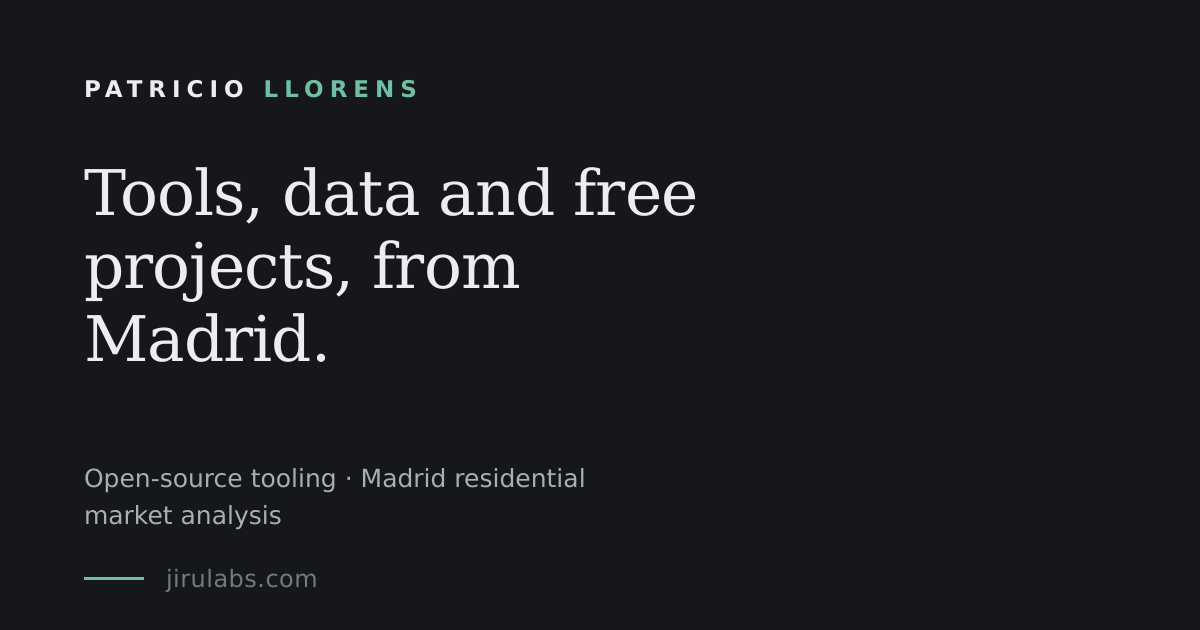
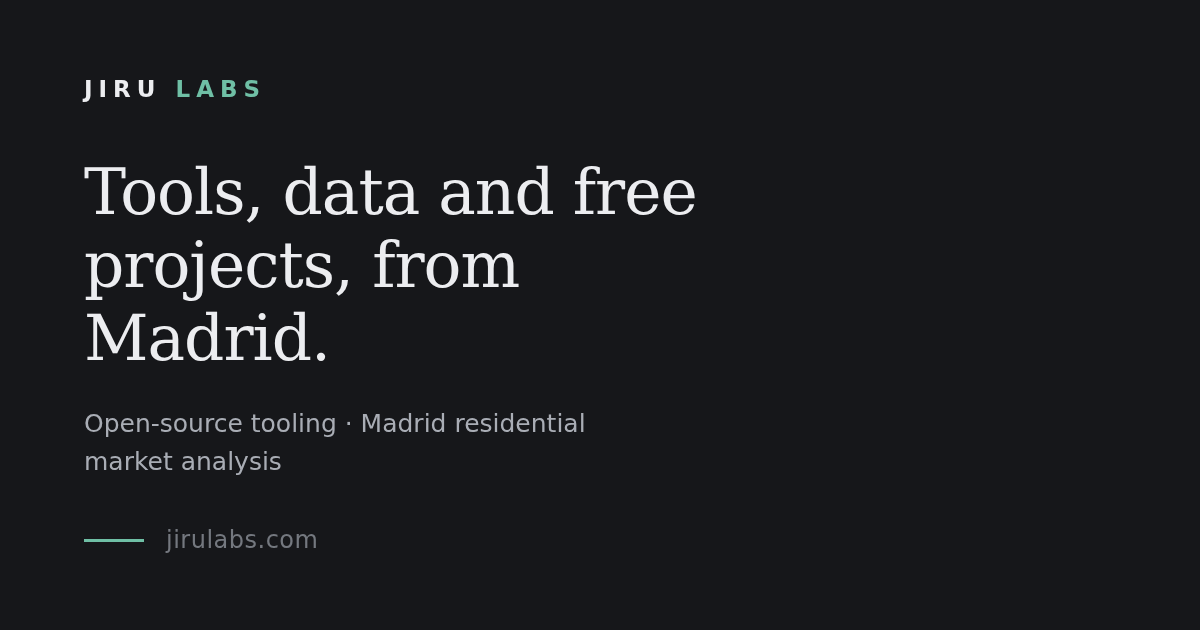
Jiru Labs name back; llm-usage-overlay -> jiru-labs

diff --git a/index.html b/index.html
@@ -5,17 +5,17 @@
 <meta name="viewport" content="width=device-width, initial-scale=1">
 <meta http-equiv="Content-Security-Policy" content="default-src 'none'; style-src 'unsafe-inline'; img-src 'self' data:; base-uri 'none'; form-action 'none'">
 <meta name="referrer" content="strict-origin-when-cross-origin">
-<title>Patricio Llorens — Herramientas open source y análisis de datos</title>
-<meta name="description" content="Patricio Llorens, en Madrid. Herramientas open source para quien ejecuta agentes de IA en su propia infraestructura y análisis longitudinal del mercado residencial de Madrid.">
+<title>Jiru Labs — Herramientas open source y análisis de datos</title>
+<meta name="description" content="Laboratorio independiente en Madrid. Herramientas open source para quien ejecuta agentes de IA en su propia infraestructura y análisis longitudinal del mercado residencial de Madrid.">
 <link rel="canonical" href="https://jirulabs.com/">
 <link rel="alternate" hreflang="es" href="https://jirulabs.com/">
 <link rel="alternate" hreflang="en" href="https://jirulabs.com/en/">
 <link rel="alternate" hreflang="x-default" href="https://jirulabs.com/">
 <meta property="og:type" content="website">
-<meta property="og:site_name" content="Patricio Llorens">
+<meta property="og:site_name" content="Jiru Labs">
 <meta property="og:locale" content="es_ES">
-<meta property="og:title" content="Patricio Llorens — Herramientas open source y análisis de datos">
-<meta property="og:description" content="Patricio Llorens, en Madrid. Herramientas open source para quien ejecuta agentes de IA en su propia infraestructura y análisis longitudinal del mercado residencial de Madrid.">
+<meta property="og:title" content="Jiru Labs — Herramientas open source y análisis de datos">
+<meta property="og:description" content="Laboratorio independiente en Madrid. Herramientas open source para quien ejecuta agentes de IA en su propia infraestructura y análisis longitudinal del mercado residencial de Madrid.">
 <meta property="og:url" content="https://jirulabs.com/">
 <meta property="og:image" content="https://jirulabs.com/og-es.png">
 <meta property="og:image:type" content="image/png">
@@ -27,7 +27,7 @@
 <meta name="robots" content="index, follow, max-snippet:-1, max-image-preview:large">
 <link rel="icon" href="/favicon.svg" type="image/svg+xml">
 <link rel="alternate icon" href="/favicon.ico" sizes="32x32">
-<script type="application/ld+json">{"@context":"https://schema.org","@graph":[{"@type":"Person","@id":"https://jirulabs.com/#person","name":"Patricio Llorens","url":"https://jirulabs.com/","email":"info@jirulabs.com","address":{"@type":"PostalAddress","addressLocality":"Madrid","addressCountry":"ES"},"sameAs":["https://github.com/jiru-labs"]},{"@type":"WebSite","@id":"https://jirulabs.com/#website","url":"https://jirulabs.com/","name":"Patricio Llorens","inLanguage":["es","en"],"publisher":{"@id":"https://jirulabs.com/#person"}}]}</script>
+<script type="application/ld+json">{"@context":"https://schema.org","@graph":[{"@type":"Organization","@id":"https://jirulabs.com/#org","name":"Jiru Labs","url":"https://jirulabs.com/","email":"info@jirulabs.com","address":{"@type":"PostalAddress","addressLocality":"Madrid","addressCountry":"ES"},"sameAs":["https://github.com/jiru-labs"]},{"@type":"WebSite","@id":"https://jirulabs.com/#website","url":"https://jirulabs.com/","name":"Jiru Labs","inLanguage":["es","en"],"publisher":{"@id":"https://jirulabs.com/#org"}}]}</script>
 <style>
   :root {
     --bg:#fbfaf8; --surface:#ffffff; --ink:#16171a; --ink-soft:#55585f; --ink-faint:#8b8f97;
@@ -202,14 +202,14 @@
 
   <header>
     <div class="topbar">
-      <div class="brand">Patricio&thinsp;<span>Llorens</span></div>
+      <div class="brand">Jiru&thinsp;<span>Labs</span></div>
       <span class="tools">
         <a class="gh" href="https://github.com/jiru-labs" title="GitHub" aria-label="GitHub"><svg viewBox="0 0 16 16" width="20" height="20" aria-hidden="true" focusable="false"><path fill="currentColor" d="M8 0c4.42 0 8 3.58 8 8a8.013 8.013 0 0 1-5.45 7.59c-.4.08-.55-.17-.55-.38 0-.27.01-1.13.01-2.2 0-.75-.25-1.23-.54-1.48 1.78-.2 3.65-.88 3.65-3.95 0-.88-.31-1.59-.82-2.15.08-.2.36-1.02-.08-2.12 0 0-.67-.22-2.2.82-.64-.18-1.32-.27-2-.27-.68 0-1.36.09-2 .27-1.53-1.03-2.2-.82-2.2-.82-.44 1.1-.16 1.92-.08 2.12-.51.56-.82 1.28-.82 2.15 0 3.06 1.86 3.75 3.64 3.95-.23.2-.44.55-.51 1.07-.46.21-1.61.55-2.33-.66-.15-.24-.6-.83-1.23-.82-.67.01-.27.38.01.53.34.19.73.9.82 1.13.16.45.68 1.31 2.69.94 0 .67.01 1.3.01 1.49 0 .21-.15.45-.55.38A7.995 7.995 0 0 1 0 8c0-4.42 3.58-8 8-8Z"/></svg></a>
         <a class="lang" href="/en/" hreflang="en">English</a>
       </span>
     </div>
     <h1>Herramientas, datos y proyectos libres, desde Madrid.</h1>
-    <p class="lede">Hago herramientas open source para quien ejecuta agentes de IA en su propia infraestructura y hago análisis longitudinal de datos de mercado. Dos líneas, un mismo criterio: sin cuentas, sin rastreo, y ninguna cifra que no se sostenga.</p>
+    <p class="lede">Hacemos herramientas open source para quien ejecuta agentes de IA en su propia infraestructura y análisis longitudinal de datos de mercado. Dos líneas, un mismo criterio: sin cuentas, sin rastreo, y ninguna cifra que no se sostenga.</p>
   </header>
 
   <hr class="rule">
@@ -225,7 +225,7 @@
         </div>
         <p>Cuánta IA estás usando, sin darle tus datos a nadie más. Una ventanita siempre visible en Windows con tus límites y tu gasto: Claude Pro/Max, ChatGPT Plus/Pro (límites de Codex), OpenCode Go/Zen, y el gasto de las API de Anthropic y OpenAI con una clave de administrador. Cada barra proyecta adónde llegarás a este ritmo, y avisa al 80 y al 95&nbsp;%. Inicias sesión en un perfil de navegador privado de la propia app: nunca lee las cookies de tu navegador ni se hace pasar por los clientes oficiales. Sin servidor, sin telemetría.</p>
         <p class="warn">El instalador no está firmado: Windows SmartScreen avisará la primera vez (Más información → Ejecutar de todas formas). Cada versión se compila en GitHub Actions desde el código etiquetado; compruébala con SHA256SUMS.txt o la atestación.</p>
-        <div class="cardlinks"><a href="https://github.com/nyakojiru/llm-usage-overlay/releases/latest">Descargar para Windows</a><a href="https://github.com/nyakojiru/llm-usage-overlay">Código</a></div>
+        <div class="cardlinks"><a href="https://github.com/jiru-labs/llm-usage-overlay/releases/latest">Descargar para Windows</a><a href="https://github.com/jiru-labs/llm-usage-overlay">Código</a></div>
         <div class="tags"><span class="tag">llm</span><span class="tag">usage-limits</span><span class="tag">privacy</span><span class="tag">tauri</span><span class="tag">windows</span></div>
       </div>
       <div class="card">
@@ -254,7 +254,7 @@
         </div>
         <p>Audita ficheros de configuración MCP en busca de claves incrustadas, transportes en claro, comandos de arranque tipo <code>curl&nbsp;|&nbsp;sh</code> y permisos demasiado amplios. Lee la configuración, no los servidores. Salida SARIF.</p>
         <pre class="install"><code>pipx install mcp-config-audit</code></pre>
-        <p class="warn">Archivado: el código y el paquete de PyPI siguen publicados, pero ya no recibe cambios. PyPI es el único registro en el que se publica, siempre desde un commit etiquetado de este repositorio. Un paquete con este nombre en npm o en cualquier otro registro no es mío.</p>
+        <p class="warn">Archivado: el código y el paquete de PyPI siguen publicados, pero ya no recibe cambios. PyPI es el único registro en el que se publica, siempre desde un commit etiquetado de este repositorio. Un paquete con este nombre en npm o en cualquier otro registro no es nuestro.</p>
         <div class="cardlinks"><a href="https://github.com/jiru-labs/mcp-config-audit">Código</a><a href="https://pypi.org/project/mcp-config-audit/">PyPI</a></div>
         <div class="tags"><span class="tag">mcp</span><span class="tag">ai-security</span><span class="tag">static-analysis</span><span class="tag">sarif</span><span class="tag">devsecops</span></div>
       </div>
@@ -283,14 +283,14 @@
       <li><b>Open source</b> — licencias permisivas (MIT y similares) bienvenidas; no exijo copyleft.</li>
       <li><b>KISS</b> — keep it simple, stupid: una forma sencilla de hacer cada cosa.</li>
     </ul>
-    <p class="soft" style="margin-top:1.1rem; font-size:.96rem">En la práctica: mis herramientas nunca se hacen pasar por clientes oficiales ni leen datos de otras aplicaciones (cookies del navegador incluidas), y todo lo no oficial se documenta como no oficial.</p>
+    <p class="soft" style="margin-top:1.1rem; font-size:.96rem">En la práctica: nuestras herramientas nunca se hacen pasar por clientes oficiales ni leen datos de otras aplicaciones (cookies del navegador incluidas), y todo lo no oficial se documenta como no oficial.</p>
   </section>
 
   <hr class="rule">
 
   <section>
     <h2>Análisis de datos — mercado residencial de Madrid</h2>
-    <p class="soft">Sigo a diario la oferta residencial de Madrid y su área metropolitana, anuncio por anuncio, desde que se publica hasta que desaparece. De esa serie salen cifras que un informe de precio medio no puede dar: <strong>cuánto tarda de verdad en venderse</strong> cada zona, <strong>qué proporción de vendedores acaba bajando el precio</strong>, cuánto lo baja y cuánto tarda en hacerlo.</p>
+    <p class="soft">Seguimos a diario la oferta residencial de Madrid y su área metropolitana, anuncio por anuncio, desde que se publica hasta que desaparece. De esa serie salen cifras que un informe de precio medio no puede dar: <strong>cuánto tarda de verdad en venderse</strong> cada zona, <strong>qué proporción de vendedores acaba bajando el precio</strong>, cuánto lo baja y cuánto tarda en hacerlo.</p>
     <p class="soft">El tiempo en mercado se estima con análisis de supervivencia: los anuncios que siguen activos no se descartan, informan el cálculo hasta la última fecha observada. Es lo que evita el sesgo optimista de promediar solo lo que ya se vendió. Los agregados se contrastan con la estadística oficial de compraventas del INE para la provincia.</p>
 
     <div class="figures">
@@ -317,7 +317,7 @@
   <footer>
     <p>Los informes de mercado se elaboran a partir de información inmobiliaria de acceso público, transformada y agregada. No incluyen datos personales de vendedores particulares en ningún formato.</p>
     <p>La información se ofrece con fines de análisis de mercado y no constituye asesoramiento de inversión ni recomendación de compra o venta.</p>
-    <p>© 2026 Patricio Llorens · Madrid</p>
+    <p>© 2026 Jiru Labs · Madrid</p>
   </footer>
 
 </div>

diff --git a/en/index.html b/en/index.html
@@ -5,17 +5,17 @@
 <meta name="viewport" content="width=device-width, initial-scale=1">
 <meta http-equiv="Content-Security-Policy" content="default-src 'none'; style-src 'unsafe-inline'; img-src 'self' data:; base-uri 'none'; form-action 'none'">
 <meta name="referrer" content="strict-origin-when-cross-origin">
-<title>Patricio Llorens — Open-source tools and data analysis</title>
-<meta name="description" content="Patricio Llorens, in Madrid. Open-source tooling for people who run AI agents on their own infrastructure and longitudinal analysis of the Madrid residential market.">
+<title>Jiru Labs — Open-source tools and data analysis</title>
+<meta name="description" content="Independent lab in Madrid. Open-source tooling for people who run AI agents on their own infrastructure and longitudinal analysis of the Madrid residential market.">
 <link rel="canonical" href="https://jirulabs.com/en/">
 <link rel="alternate" hreflang="es" href="https://jirulabs.com/">
 <link rel="alternate" hreflang="en" href="https://jirulabs.com/en/">
 <link rel="alternate" hreflang="x-default" href="https://jirulabs.com/">
 <meta property="og:type" content="website">
-<meta property="og:site_name" content="Patricio Llorens">
+<meta property="og:site_name" content="Jiru Labs">
 <meta property="og:locale" content="en_GB">
-<meta property="og:title" content="Patricio Llorens — Open-source tools and data analysis">
-<meta property="og:description" content="Patricio Llorens, in Madrid. Open-source tooling for people who run AI agents on their own infrastructure and longitudinal analysis of the Madrid residential market.">
+<meta property="og:title" content="Jiru Labs — Open-source tools and data analysis">
+<meta property="og:description" content="Independent lab in Madrid. Open-source tooling for people who run AI agents on their own infrastructure and longitudinal analysis of the Madrid residential market.">
 <meta property="og:url" content="https://jirulabs.com/en/">
 <meta property="og:image" content="https://jirulabs.com/og-en.png">
 <meta property="og:image:type" content="image/png">
@@ -27,7 +27,7 @@
 <meta name="robots" content="index, follow, max-snippet:-1, max-image-preview:large">
 <link rel="icon" href="/favicon.svg" type="image/svg+xml">
 <link rel="alternate icon" href="/favicon.ico" sizes="32x32">
-<script type="application/ld+json">{"@context":"https://schema.org","@graph":[{"@type":"Person","@id":"https://jirulabs.com/#person","name":"Patricio Llorens","url":"https://jirulabs.com/","email":"info@jirulabs.com","address":{"@type":"PostalAddress","addressLocality":"Madrid","addressCountry":"ES"},"sameAs":["https://github.com/jiru-labs"]},{"@type":"WebSite","@id":"https://jirulabs.com/#website","url":"https://jirulabs.com/","name":"Patricio Llorens","inLanguage":["es","en"],"publisher":{"@id":"https://jirulabs.com/#person"}}]}</script>
+<script type="application/ld+json">{"@context":"https://schema.org","@graph":[{"@type":"Organization","@id":"https://jirulabs.com/#org","name":"Jiru Labs","url":"https://jirulabs.com/","email":"info@jirulabs.com","address":{"@type":"PostalAddress","addressLocality":"Madrid","addressCountry":"ES"},"sameAs":["https://github.com/jiru-labs"]},{"@type":"WebSite","@id":"https://jirulabs.com/#website","url":"https://jirulabs.com/","name":"Jiru Labs","inLanguage":["es","en"],"publisher":{"@id":"https://jirulabs.com/#org"}}]}</script>
 <style>
   :root {
     --bg:#fbfaf8; --surface:#ffffff; --ink:#16171a; --ink-soft:#55585f; --ink-faint:#8b8f97;
@@ -202,14 +202,14 @@
 
   <header>
     <div class="topbar">
-      <div class="brand">Patricio&thinsp;<span>Llorens</span></div>
+      <div class="brand">Jiru&thinsp;<span>Labs</span></div>
       <span class="tools">
         <a class="gh" href="https://github.com/jiru-labs" title="GitHub" aria-label="GitHub"><svg viewBox="0 0 16 16" width="20" height="20" aria-hidden="true" focusable="false"><path fill="currentColor" d="M8 0c4.42 0 8 3.58 8 8a8.013 8.013 0 0 1-5.45 7.59c-.4.08-.55-.17-.55-.38 0-.27.01-1.13.01-2.2 0-.75-.25-1.23-.54-1.48 1.78-.2 3.65-.88 3.65-3.95 0-.88-.31-1.59-.82-2.15.08-.2.36-1.02-.08-2.12 0 0-.67-.22-2.2.82-.64-.18-1.32-.27-2-.27-.68 0-1.36.09-2 .27-1.53-1.03-2.2-.82-2.2-.82-.44 1.1-.16 1.92-.08 2.12-.51.56-.82 1.28-.82 2.15 0 3.06 1.86 3.75 3.64 3.95-.23.2-.44.55-.51 1.07-.46.21-1.61.55-2.33-.66-.15-.24-.6-.83-1.23-.82-.67.01-.27.38.01.53.34.19.73.9.82 1.13.16.45.68 1.31 2.69.94 0 .67.01 1.3.01 1.49 0 .21-.15.45-.55.38A7.995 7.995 0 0 1 0 8c0-4.42 3.58-8 8-8Z"/></svg></a>
         <a class="lang" href="/" hreflang="es">Español</a>
       </span>
     </div>
     <h1>Tools, data and free projects, from Madrid.</h1>
-    <p class="lede">I build open-source tooling for people who run AI agents on their own infrastructure, and do longitudinal analysis of market data. Two lines of work, one standard: no accounts, no tracking, and no number that doesn't hold up.</p>
+    <p class="lede">We build open-source tooling for people who run AI agents on their own infrastructure, and we do longitudinal analysis of market data. Two lines of work, one standard: no accounts, no tracking, and no number that doesn't hold up.</p>
   </header>
 
   <hr class="rule">
@@ -225,7 +225,7 @@
         </div>
         <p>Know how much AI you're using without handing your data to anyone else. A small always-on-top Windows overlay with your limits and spend: Claude Pro/Max, ChatGPT Plus/Pro (Codex limits), OpenCode Go/Zen, and Anthropic and OpenAI API spend with an admin key. Each bar projects where you'll be at this pace, and it notifies you at 80 and 95&nbsp;%. You sign in inside the app's own private browser profile: it never reads your browser's cookies or impersonates official clients. No server, no telemetry.</p>
         <p class="warn">The installer is not code-signed, so Windows SmartScreen warns the first time (More info → Run anyway). Every release is built by GitHub Actions from the tagged source; check it against SHA256SUMS.txt or the build attestation.</p>
-        <div class="cardlinks"><a href="https://github.com/nyakojiru/llm-usage-overlay/releases/latest">Download for Windows</a><a href="https://github.com/nyakojiru/llm-usage-overlay">Source</a></div>
+        <div class="cardlinks"><a href="https://github.com/jiru-labs/llm-usage-overlay/releases/latest">Download for Windows</a><a href="https://github.com/jiru-labs/llm-usage-overlay">Source</a></div>
         <div class="tags"><span class="tag">llm</span><span class="tag">usage-limits</span><span class="tag">privacy</span><span class="tag">tauri</span><span class="tag">windows</span></div>
       </div>
       <div class="card">
@@ -254,7 +254,7 @@
         </div>
         <p>Audits MCP configuration files for hardcoded keys, plaintext transports, <code>curl&nbsp;|&nbsp;sh</code> launch commands and over-broad permissions. It reads the configuration, not the servers. SARIF output.</p>
         <pre class="install"><code>pipx install mcp-config-audit</code></pre>
-        <p class="warn">Archived: the code and the PyPI package stay published, but it no longer gets changes. PyPI is the only registry it is published to, always from a tagged commit in this repository. A package of this name on npm or any other registry is not mine.</p>
+        <p class="warn">Archived: the code and the PyPI package stay published, but it no longer gets changes. PyPI is the only registry it is published to, always from a tagged commit in this repository. A package of this name on npm or any other registry is not ours.</p>
         <div class="cardlinks"><a href="https://github.com/jiru-labs/mcp-config-audit">Source</a><a href="https://pypi.org/project/mcp-config-audit/">PyPI</a></div>
         <div class="tags"><span class="tag">mcp</span><span class="tag">ai-security</span><span class="tag">static-analysis</span><span class="tag">sarif</span><span class="tag">devsecops</span></div>
       </div>
@@ -283,14 +283,14 @@
       <li><b>Open source</b> — permissive licenses (MIT and friends) are welcome; no copyleft required.</li>
       <li><b>KISS</b> — keep it simple, stupid: one simple way to do each thing.</li>
     </ul>
-    <p class="soft" style="margin-top:1.1rem; font-size:.96rem">In practice: my tools never impersonate official clients or read other apps' data (browser cookies included), and anything unofficial is documented as unofficial.</p>
+    <p class="soft" style="margin-top:1.1rem; font-size:.96rem">In practice: our tools never impersonate official clients or read other apps' data (browser cookies included), and anything unofficial is documented as unofficial.</p>
   </section>
 
   <hr class="rule">
 
   <section>
     <h2>Data analysis — Madrid residential market</h2>
-    <p class="soft">I track the residential supply of Madrid and its metropolitan area daily, listing by listing, from the day it is published until it disappears. That series yields figures an average-price report cannot give: <strong>how long each zone actually takes to sell</strong>, <strong>what share of sellers end up cutting the price</strong>, by how much, and how long they wait before doing it.</p>
+    <p class="soft">We track the residential supply of Madrid and its metropolitan area daily, listing by listing, from the day it is published until it disappears. That series yields figures an average-price report cannot give: <strong>how long each zone actually takes to sell</strong>, <strong>what share of sellers end up cutting the price</strong>, by how much, and how long they wait before doing it.</p>
     <p class="soft">Time on market is estimated with survival analysis: listings still active are not discarded, they inform the estimate up to the last observed date. That is what avoids the optimistic bias of averaging only what has already sold. Aggregates are cross-checked against the INE's official transaction statistics for the province.</p>
 
     <div class="figures">
@@ -317,7 +317,7 @@
   <footer>
     <p>Market reports are produced from publicly accessible property information, transformed and aggregated. They contain no personal data of private sellers in any form.</p>
     <p>The information is provided for market-analysis purposes and does not constitute investment advice or a recommendation to buy or sell.</p>
-    <p>© 2026 Patricio Llorens · Madrid</p>
+    <p>© 2026 Jiru Labs · Madrid</p>
   </footer>
 
 </div>

diff --git a/proofkey/index.html b/proofkey/index.html
@@ -12,7 +12,7 @@
 <link rel="alternate" hreflang="en" href="https://jirulabs.com/en/proofkey/">
 <link rel="alternate" hreflang="x-default" href="https://jirulabs.com/en/proofkey/">
 <meta property="og:type" content="website">
-<meta property="og:site_name" content="Patricio Llorens">
+<meta property="og:site_name" content="Jiru Labs">
 <meta property="og:locale" content="es_ES">
 <meta property="og:title" content="ProofKey — Alternativa privada a Grammarly, con tu propia clave">
 <meta property="og:description" content="Extensión de Chrome privada, gratuita y de código abierto: corrección gramatical en línea y reescrituras, enviadas solo al proveedor de IA que configures con tu propia clave, o a un modelo local. Sin backend, sin cuenta, sin telemetría.">
@@ -27,7 +27,7 @@
 <meta name="robots" content="index, follow, max-snippet:-1, max-image-preview:large">
 <link rel="icon" href="/favicon.svg" type="image/svg+xml">
 <link rel="alternate icon" href="/favicon.ico" sizes="32x32">
-<script type="application/ld+json">{"@context":"https://schema.org","@type":"SoftwareApplication","name":"ProofKey","url":"https://jirulabs.com/proofkey/","description":"Extensión de Chrome privada, gratuita y de código abierto: corrección gramatical en línea y reescrituras, enviadas solo al proveedor de IA que configures con tu propia clave, o a un modelo local. Sin backend, sin cuenta, sin telemetría.","inLanguage":"es","applicationCategory":"BrowserApplication","operatingSystem":"Chrome","offers":{"@type":"Offer","price":"0","priceCurrency":"EUR"},"license":"https://opensource.org/licenses/MIT","installUrl":"https://chromewebstore.google.com/detail/loibjoemoahkajjnfioajcibcamhdafc","downloadUrl":"https://chromewebstore.google.com/detail/loibjoemoahkajjnfioajcibcamhdafc","sameAs":["https://chromewebstore.google.com/detail/loibjoemoahkajjnfioajcibcamhdafc","https://github.com/jiru-labs/proofkey"],"image":"https://jirulabs.com/proofkey-icon-512.png","screenshot":["https://jirulabs.com/proofkey-screenshot-1.png","https://jirulabs.com/proofkey-screenshot-2.png","https://jirulabs.com/proofkey-screenshot-3.png","https://jirulabs.com/proofkey-screenshot-4.png"],"publisher":{"@type":"Person","@id":"https://jirulabs.com/#person","name":"Patricio Llorens","url":"https://jirulabs.com/"}}</script>
+<script type="application/ld+json">{"@context":"https://schema.org","@type":"SoftwareApplication","name":"ProofKey","url":"https://jirulabs.com/proofkey/","description":"Extensión de Chrome privada, gratuita y de código abierto: corrección gramatical en línea y reescrituras, enviadas solo al proveedor de IA que configures con tu propia clave, o a un modelo local. Sin backend, sin cuenta, sin telemetría.","inLanguage":"es","applicationCategory":"BrowserApplication","operatingSystem":"Chrome","offers":{"@type":"Offer","price":"0","priceCurrency":"EUR"},"license":"https://opensource.org/licenses/MIT","installUrl":"https://chromewebstore.google.com/detail/loibjoemoahkajjnfioajcibcamhdafc","downloadUrl":"https://chromewebstore.google.com/detail/loibjoemoahkajjnfioajcibcamhdafc","sameAs":["https://chromewebstore.google.com/detail/loibjoemoahkajjnfioajcibcamhdafc","https://github.com/jiru-labs/proofkey"],"image":"https://jirulabs.com/proofkey-icon-512.png","screenshot":["https://jirulabs.com/proofkey-screenshot-1.png","https://jirulabs.com/proofkey-screenshot-2.png","https://jirulabs.com/proofkey-screenshot-3.png","https://jirulabs.com/proofkey-screenshot-4.png"],"publisher":{"@type":"Organization","@id":"https://jirulabs.com/#org","name":"Jiru Labs","url":"https://jirulabs.com/"}}</script>
 <style>
   :root {
     --bg:#fbfaf8; --surface:#ffffff; --ink:#16171a; --ink-soft:#55585f; --ink-faint:#8b8f97;
@@ -202,14 +202,14 @@
 
   <header>
     <div class="topbar">
-      <a class="crumb" href="/">Patricio Llorens /</a>
+      <a class="crumb" href="/">Jiru Labs /</a>
       <span class="tools">
         <a class="gh" href="https://github.com/jiru-labs" title="GitHub" aria-label="GitHub"><svg viewBox="0 0 16 16" width="20" height="20" aria-hidden="true" focusable="false"><path fill="currentColor" d="M8 0c4.42 0 8 3.58 8 8a8.013 8.013 0 0 1-5.45 7.59c-.4.08-.55-.17-.55-.38 0-.27.01-1.13.01-2.2 0-.75-.25-1.23-.54-1.48 1.78-.2 3.65-.88 3.65-3.95 0-.88-.31-1.59-.82-2.15.08-.2.36-1.02-.08-2.12 0 0-.67-.22-2.2.82-.64-.18-1.32-.27-2-.27-.68 0-1.36.09-2 .27-1.53-1.03-2.2-.82-2.2-.82-.44 1.1-.16 1.92-.08 2.12-.51.56-.82 1.28-.82 2.15 0 3.06 1.86 3.75 3.64 3.95-.23.2-.44.55-.51 1.07-.46.21-1.61.55-2.33-.66-.15-.24-.6-.83-1.23-.82-.67.01-.27.38.01.53.34.19.73.9.82 1.13.16.45.68 1.31 2.69.94 0 .67.01 1.3.01 1.49 0 .21-.15.45-.55.38A7.995 7.995 0 0 1 0 8c0-4.42 3.58-8 8-8Z"/></svg></a>
         <a class="lang" href="/en/proofkey/" hreflang="en">English</a>
       </span>
     </div>
     <h1>Ayuda privada para escribir, al estilo Grammarly. Tu clave, tu proveedor, tu texto.</h1>
-    <p class="lede">ProofKey es una extensión de Chrome gratuita y de código abierto. Subraya los errores mientras escribes y reescribe a petición, como hace Grammarly. La diferencia es adónde va el texto: solo al proveedor de IA que configures con tu propia clave de API, o a un modelo que corra en tu propia máquina. En Google Chrome no necesita ninguna de las dos cosas: arranca con el modelo que Chrome guarda en tu ordenador, sin clave y sin cuenta. No hay ningún servidor mío en medio.</p>
+    <p class="lede">ProofKey es una extensión de Chrome gratuita y de código abierto. Subraya los errores mientras escribes y reescribe a petición, como hace Grammarly. La diferencia es adónde va el texto: solo al proveedor de IA que configures con tu propia clave de API, o a un modelo que corra en tu propia máquina. En Google Chrome no necesita ninguna de las dos cosas: arranca con el modelo que Chrome guarda en tu ordenador, sin clave y sin cuenta. No hay ningún servidor nuestro en medio.</p>
     <div class="cta">
       <a class="primary" href="https://chromewebstore.google.com/detail/loibjoemoahkajjnfioajcibcamhdafc">Instalar desde Chrome Web Store</a>
       <a href="https://github.com/jiru-labs/proofkey">Leer el código en GitHub</a>
@@ -293,11 +293,11 @@
     <h2>Estado real</h2>
     <p class="soft">Es una versión temprana. Lo construido es más grande que lo confirmado a mano, y el repositorio mantiene las dos cosas separadas: lo afirma una prueba automática, lo ejecutó un mantenedor, lo reportó un usuario, o nadie lo ha intentado. Una fila solo se mueve cuando hay un enlace que señalar.</p>
     <p class="soft">Si se te rompe, un issue sirve mucho más que un comentario: <a class="link" href="https://github.com/jiru-labs/proofkey/issues">GitHub Issues</a></p>
-    <p class="signature">Licencia MIT. Hecho por Patricio Llorens en Madrid.</p>
+    <p class="signature">Licencia MIT. Hecho por Jiru Labs en Madrid.</p>
   </section>
 
   <footer>
-    <p>© 2026 Patricio Llorens · Madrid</p>
+    <p>© 2026 Jiru Labs · Madrid</p>
   </footer>
 
 </div>

diff --git a/en/proofkey/index.html b/en/proofkey/index.html
@@ -12,7 +12,7 @@
 <link rel="alternate" hreflang="en" href="https://jirulabs.com/en/proofkey/">
 <link rel="alternate" hreflang="x-default" href="https://jirulabs.com/en/proofkey/">
 <meta property="og:type" content="website">
-<meta property="og:site_name" content="Patricio Llorens">
+<meta property="og:site_name" content="Jiru Labs">
 <meta property="og:locale" content="en_GB">
 <meta property="og:title" content="ProofKey — Private Grammarly alternative with your own API key">
 <meta property="og:description" content="Private, free and open-source Chrome extension: inline grammar checking and rewrites, sent only to the AI provider you configure with your own key, or to a local model. No backend, no account, no telemetry.">
@@ -27,7 +27,7 @@
 <meta name="robots" content="index, follow, max-snippet:-1, max-image-preview:large">
 <link rel="icon" href="/favicon.svg" type="image/svg+xml">
 <link rel="alternate icon" href="/favicon.ico" sizes="32x32">
-<script type="application/ld+json">{"@context":"https://schema.org","@type":"SoftwareApplication","name":"ProofKey","url":"https://jirulabs.com/en/proofkey/","description":"Private, free and open-source Chrome extension: inline grammar checking and rewrites, sent only to the AI provider you configure with your own key, or to a local model. No backend, no account, no telemetry.","inLanguage":"en","applicationCategory":"BrowserApplication","operatingSystem":"Chrome","offers":{"@type":"Offer","price":"0","priceCurrency":"EUR"},"license":"https://opensource.org/licenses/MIT","installUrl":"https://chromewebstore.google.com/detail/loibjoemoahkajjnfioajcibcamhdafc","downloadUrl":"https://chromewebstore.google.com/detail/loibjoemoahkajjnfioajcibcamhdafc","sameAs":["https://chromewebstore.google.com/detail/loibjoemoahkajjnfioajcibcamhdafc","https://github.com/jiru-labs/proofkey"],"image":"https://jirulabs.com/proofkey-icon-512.png","screenshot":["https://jirulabs.com/proofkey-screenshot-1.png","https://jirulabs.com/proofkey-screenshot-2.png","https://jirulabs.com/proofkey-screenshot-3.png","https://jirulabs.com/proofkey-screenshot-4.png"],"publisher":{"@type":"Person","@id":"https://jirulabs.com/#person","name":"Patricio Llorens","url":"https://jirulabs.com/"}}</script>
+<script type="application/ld+json">{"@context":"https://schema.org","@type":"SoftwareApplication","name":"ProofKey","url":"https://jirulabs.com/en/proofkey/","description":"Private, free and open-source Chrome extension: inline grammar checking and rewrites, sent only to the AI provider you configure with your own key, or to a local model. No backend, no account, no telemetry.","inLanguage":"en","applicationCategory":"BrowserApplication","operatingSystem":"Chrome","offers":{"@type":"Offer","price":"0","priceCurrency":"EUR"},"license":"https://opensource.org/licenses/MIT","installUrl":"https://chromewebstore.google.com/detail/loibjoemoahkajjnfioajcibcamhdafc","downloadUrl":"https://chromewebstore.google.com/detail/loibjoemoahkajjnfioajcibcamhdafc","sameAs":["https://chromewebstore.google.com/detail/loibjoemoahkajjnfioajcibcamhdafc","https://github.com/jiru-labs/proofkey"],"image":"https://jirulabs.com/proofkey-icon-512.png","screenshot":["https://jirulabs.com/proofkey-screenshot-1.png","https://jirulabs.com/proofkey-screenshot-2.png","https://jirulabs.com/proofkey-screenshot-3.png","https://jirulabs.com/proofkey-screenshot-4.png"],"publisher":{"@type":"Organization","@id":"https://jirulabs.com/#org","name":"Jiru Labs","url":"https://jirulabs.com/"}}</script>
 <style>
   :root {
     --bg:#fbfaf8; --surface:#ffffff; --ink:#16171a; --ink-soft:#55585f; --ink-faint:#8b8f97;
@@ -202,14 +202,14 @@
 
   <header>
     <div class="topbar">
-      <a class="crumb" href="/en/">Patricio Llorens /</a>
+      <a class="crumb" href="/en/">Jiru Labs /</a>
       <span class="tools">
         <a class="gh" href="https://github.com/jiru-labs" title="GitHub" aria-label="GitHub"><svg viewBox="0 0 16 16" width="20" height="20" aria-hidden="true" focusable="false"><path fill="currentColor" d="M8 0c4.42 0 8 3.58 8 8a8.013 8.013 0 0 1-5.45 7.59c-.4.08-.55-.17-.55-.38 0-.27.01-1.13.01-2.2 0-.75-.25-1.23-.54-1.48 1.78-.2 3.65-.88 3.65-3.95 0-.88-.31-1.59-.82-2.15.08-.2.36-1.02-.08-2.12 0 0-.67-.22-2.2.82-.64-.18-1.32-.27-2-.27-.68 0-1.36.09-2 .27-1.53-1.03-2.2-.82-2.2-.82-.44 1.1-.16 1.92-.08 2.12-.51.56-.82 1.28-.82 2.15 0 3.06 1.86 3.75 3.64 3.95-.23.2-.44.55-.51 1.07-.46.21-1.61.55-2.33-.66-.15-.24-.6-.83-1.23-.82-.67.01-.27.38.01.53.34.19.73.9.82 1.13.16.45.68 1.31 2.69.94 0 .67.01 1.3.01 1.49 0 .21-.15.45-.55.38A7.995 7.995 0 0 1 0 8c0-4.42 3.58-8 8-8Z"/></svg></a>
         <a class="lang" href="/proofkey/" hreflang="es">Español</a>
       </span>
     </div>
     <h1>Private, Grammarly-style writing help. Your key, your provider, your text.</h1>
-    <p class="lede">ProofKey is a free, open-source Chrome extension. It underlines mistakes as you type and rewrites on request, the way Grammarly does. The difference is where the text goes: only to the AI provider you configure with your own API key, or to a model running on your own machine. In Google Chrome it needs neither: it starts on the model Chrome keeps on your computer, with no key and no account. There is no server of mine in between.</p>
+    <p class="lede">ProofKey is a free, open-source Chrome extension. It underlines mistakes as you type and rewrites on request, the way Grammarly does. The difference is where the text goes: only to the AI provider you configure with your own API key, or to a model running on your own machine. In Google Chrome it needs neither: it starts on the model Chrome keeps on your computer, with no key and no account. There is no server of ours in between.</p>
     <div class="cta">
       <a class="primary" href="https://chromewebstore.google.com/detail/loibjoemoahkajjnfioajcibcamhdafc">Install from the Chrome Web Store</a>
       <a href="https://github.com/jiru-labs/proofkey">Read the source on GitHub</a>
@@ -293,11 +293,11 @@
     <h2>Honest status</h2>
     <p class="soft">This is an early release. What is built is larger than what has been confirmed by hand, and the repository keeps the two apart: an automated test asserts this, a maintainer ran it, a user reported it, or nobody has tried. A row only moves when there is a link to point at.</p>
     <p class="soft">If it breaks for you, an issue is far more useful than a comment: <a class="link" href="https://github.com/jiru-labs/proofkey/issues">GitHub Issues</a></p>
-    <p class="signature">MIT licence. Built by Patricio Llorens in Madrid.</p>
+    <p class="signature">MIT licence. Built by Jiru Labs in Madrid.</p>
   </section>
 
   <footer>
-    <p>© 2026 Patricio Llorens · Madrid</p>
+    <p>© 2026 Jiru Labs · Madrid</p>
   </footer>
 
 </div>

diff --git a/proofkey/privacy/index.html b/proofkey/privacy/index.html
@@ -190,21 +190,21 @@
   </header>
 
   <section class="policy">
-<!-- from https://github.com/jiru-labs/proofkey/blob/cb4e30f/PRIVACY.md -->
+<!-- from https://github.com/jiru-labs/proofkey/blob/17fbb1d/PRIVACY.md -->
 <div class="markdown-heading"><h1 class="heading-element">Privacy Policy</h1><a id="user-content-privacy-policy" class="anchor" aria-label="Permalink: Privacy Policy" href="#privacy-policy"><span aria-hidden="true" class="octicon octicon-link"></span></a></div>
-<p><strong>Last updated: 17 November 2026</strong></p>
-<p>ProofKey is a browser extension published by Patricio Llorens. This policy describes
+<p><strong>Last updated: 23 November 2026</strong></p>
+<p>ProofKey is a browser extension published by Jiru Labs. This policy describes
 what it does with your data. It is short because the extension does very little.</p>
 <div class="markdown-heading"><h2 class="heading-element">The short version</h2><a id="user-content-the-short-version" class="anchor" aria-label="Permalink: The short version" href="#the-short-version"><span aria-hidden="true" class="octicon octicon-link"></span></a></div>
 <p>ProofKey has no backend. There is no ProofKey server, no ProofKey account, and
-no analytics. I do not receive your text, your API keys, or any record
+no analytics. Jiru Labs does not receive your text, your API keys, or any record
 that you used the extension.</p>
 <div class="markdown-heading"><h2 class="heading-element">What leaves your browser, and where it goes</h2><a id="user-content-what-leaves-your-browser-and-where-it-goes" class="anchor" aria-label="Permalink: What leaves your browser, and where it goes" href="#what-leaves-your-browser-and-where-it-goes"><span aria-hidden="true" class="octicon octicon-link"></span></a></div>
 <p>When you run an action, ProofKey sends the text you selected — or the sentence
 you just finished typing — to <strong>the LLM provider you configured, at the base URL
 you configured</strong>, using <strong>your own API key</strong>. That request goes directly from
 your browser to that provider. It does not pass through any machine operated by
-me.</p>
+Jiru Labs.</p>
 <p>Which provider that is, is entirely your choice. If you point ProofKey at a
 local model such as Ollama, nothing leaves your machine at all.</p>
 <p><strong>Chrome's built-in model sends nothing.</strong> In Google Chrome, a fresh install of
@@ -288,8 +288,8 @@ described above stays on your device and is only read by ProofKey itself.</li>
 <p><strong>It protects against:</strong></p>
 <ul>
 <li>
-<strong>Surveillance as a business model</strong>, on the part of the tool itself. I run
-no server for ProofKey: no text, key, setting or usage count reaches me,
+<strong>Surveillance as a business model</strong>, on the part of the tool itself. Jiru Labs
+runs no server for ProofKey: no text, key, setting or usage count reaches us,
 because there is nowhere for it to go. The code is MIT licensed, so this can
 be checked rather than taken on trust.</li>
 <li>
@@ -359,7 +359,7 @@ Face like any visit.</li>
 </tbody>
 </table>
 <div class="markdown-heading"><h2 class="heading-element">If this ever changes</h2><a id="user-content-if-this-ever-changes" class="anchor" aria-label="Permalink: If this ever changes" href="#if-this-ever-changes"><span aria-hidden="true" class="octicon octicon-link"></span></a></div>
-<p>If I ever offer an optional paid or hosted feature, it would be exactly
+<p>If Jiru Labs ever offers an optional paid or hosted feature, it would be exactly
 that — optional, off by default, and described here before it ships. The
 extension's default behaviour, as described above, is not going to start sending
 your writing somewhere else. If that ever changed, it would be a new major
@@ -377,7 +377,7 @@ policy than trust it, the code is at
   </section>
 
   <footer>
-    <p>© 2026 Patricio Llorens · Madrid</p>
+    <p>© 2026 Jiru Labs · Madrid</p>
   </footer>
 
 </div>

diff --git a/privacidad/index.html b/privacidad/index.html
@@ -193,7 +193,7 @@
 <!-- Política de privacidad de «Asistente de oficina» (app OAuth de Google). Texto mínimo, 19-11-2026. -->
 <h1>Política de privacidad — Asistente de oficina</h1>
 <p><strong>Última actualización: 19 de noviembre de 2026</strong></p>
-<p><strong>Responsable:</strong> Jiru Labs (Patricio Llorens). Contacto: <a class="link" href="mailto:info@jirulabs.com">info@jirulabs.com</a>.</p>
+<p><strong>Responsable:</strong> Jiru Labs. Contacto: <a class="link" href="mailto:info@jirulabs.com">info@jirulabs.com</a>.</p>
 <h2>Qué es</h2>
 <p>«Asistente de oficina» es un asistente que Jiru Labs configura para cada oficina cliente. Si el usuario lo autoriza con su cuenta de Google, el asistente puede leer, enviar y organizar sus correos de Gmail; consultar y gestionar su Google Calendar; buscar, leer y crear archivos en Google Drive, Documentos y Hojas de cálculo; y consultar sus contactos de Google.</p>
 <h2>Qué datos usamos y para qué</h2>
@@ -212,7 +212,7 @@
   </section>
 
   <footer>
-    <p>© 2026 Patricio Llorens · Madrid</p>
+    <p>© 2026 Jiru Labs · Madrid</p>
   </footer>
 
 </div>

diff --git a/404.html b/404.html
@@ -5,7 +5,7 @@
 <meta name="viewport" content="width=device-width, initial-scale=1">
 <meta http-equiv="Content-Security-Policy" content="default-src 'none'; style-src 'unsafe-inline'; img-src 'self' data:; base-uri 'none'; form-action 'none'">
 <meta name="referrer" content="strict-origin-when-cross-origin">
-<title>Página no encontrada · Patricio Llorens</title>
+<title>Página no encontrada · Jiru Labs</title>
 <meta name="robots" content="noindex">
 <link rel="icon" href="/favicon.svg" type="image/svg+xml">
 <link rel="alternate icon" href="/favicon.ico" sizes="32x32">
@@ -183,7 +183,7 @@
 
   <header>
     <div class="topbar">
-      <div class="brand">Patricio&thinsp;<span>Llorens</span></div>
+      <div class="brand">Jiru&thinsp;<span>Labs</span></div>
     </div>
     <h1>Esta página no existe.</h1>
     <p class="lede">Puede que la dirección esté mal escrita o que la página se haya movido.
@@ -193,7 +193,7 @@
   </header>
 
   <footer>
-    <p>© 2026 Patricio Llorens · Madrid</p>
+    <p>© 2026 Jiru Labs · Madrid</p>
   </footer>
 
 </div>
